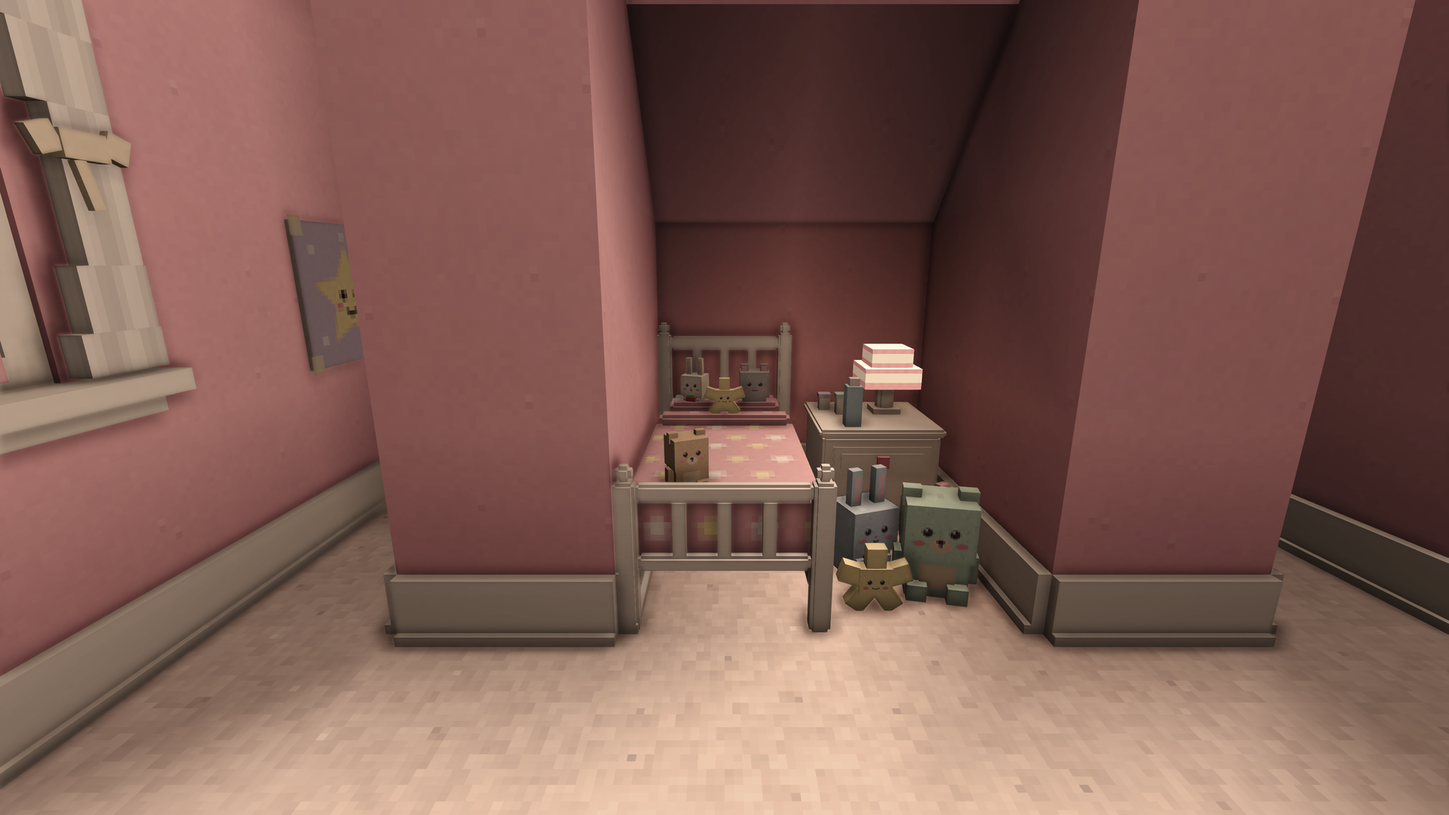
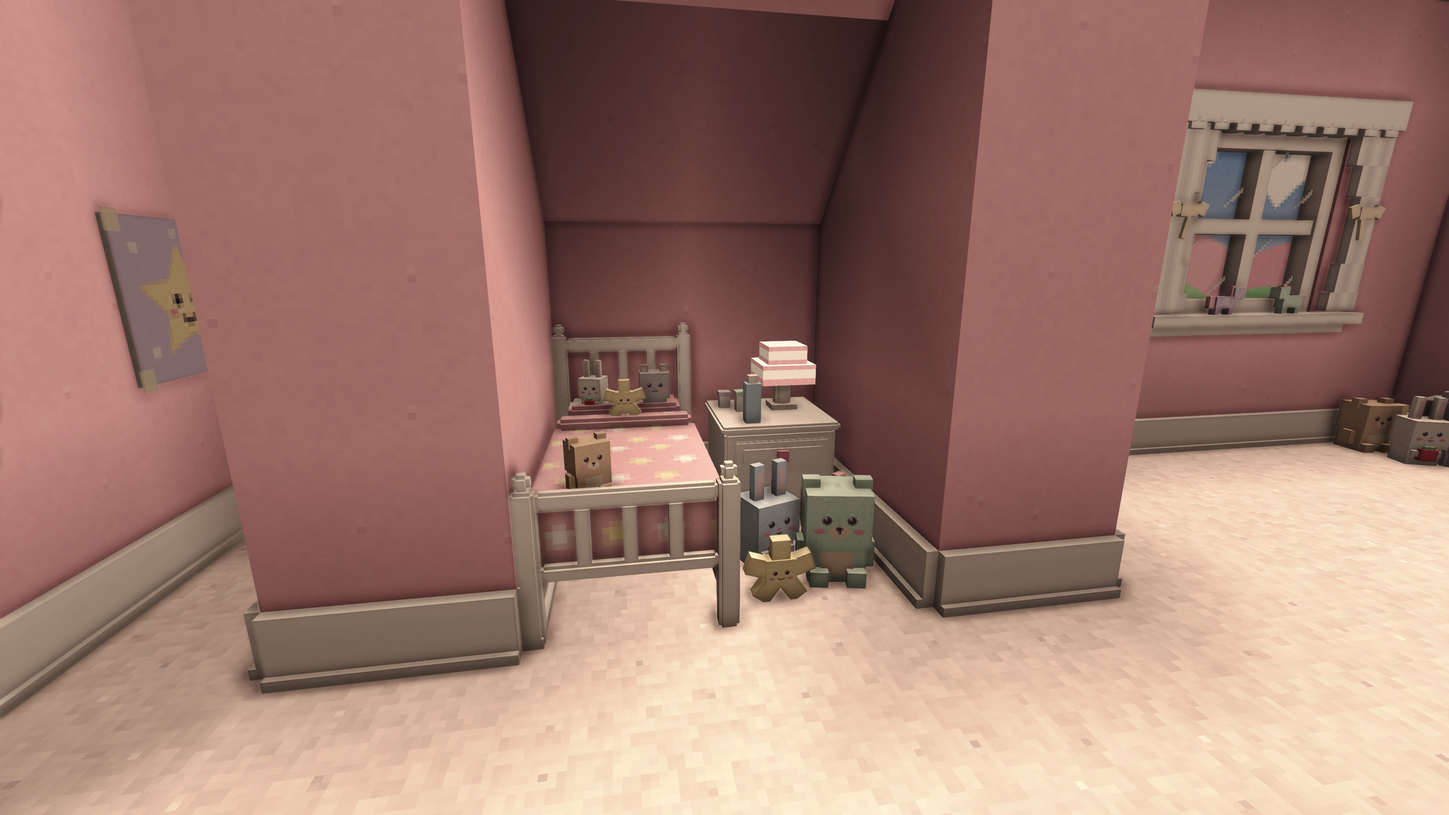
Screenshots for 0.514.0 after layout-9 room changes: hotel lobby, Kitty's House, Level !, ten changelog pairs
- Retaken in a fresh world (gfxgallery9c, seed 1672613597, "layout version 9 (new world)") from a build
  of 3ef62b0, fullscreen 3856x2176 scaled to 1920x1080: gallery 29 (Level !'s last stretch, one evenly
  spaced EXIT sign), 36 (Kitty's room, four rows further south, by its own lights) and 37 (the bed in
  its alcove with the longer bedroom and its east window beside it); thumbs run and l974 follow.
- Changelog pairs: new afters for the hotel lobby (piano with its own bench, no chair), Kitty's room
  (own lights) and Level !'s junk (evenly spaced signs); a new pair for the bedroom where you wake
  (6 by 10, was 6 by 6), both sides by the house's own lights; renumbered 06-10 so the creatures stay
  last. Overview and web copies rebuilt with showcase.py.
- CHANGELOG and the mod page (md and html) list ten pairs; tracker notes the reshoot's lessons.

diff --git a/docs/moddb-description.html b/docs/moddb-description.html
@@ -34,18 +34,19 @@
 <div style="padding: 14px 20px 6px;">
 <p style="margin: 0 0 10px;"><strong>A new look for every level.</strong> Every texture and model the mod adds was rebuilt beside the vanilla blocks around it, level by level, so the Backrooms now look like they belong in Vintage Story: wallpaper, carpet, concrete, brick and tile with real structure and shading and no visible block edges; gauges, handles, grilles, lamps and doors made as real shapes instead of paint; desks, chairs, shelves, diner booths, arcade cabinets and vending machines modelled; and every creature and item icon repainted with light and shade. Level 94's houses are all cream-yellow, its siren poles stand at last, and a white municipal water tower rises over each town (in worlds made from now on). Nothing vanilla changed, and existing worlds keep working.</p>
 <p style="margin: 0 0 14px;">In numbers: 1,219 block textures, 59 creature and character textures, 62 item icons and 608 block models were redrawn or rebuilt across all 22 levels, and 196 asset families were compared side by side, before and after; all but one were kept.</p>
-<p style="margin: 0 0 14px;"><strong>New in this version.</strong> Three new creatures: the Neighborhood Watch walks Level 9's streets and hunts by sight, Giant Spiders lie low in Level 8's caves round cobwebbed nests, and the Beast of Level 5 comes out of the hotel's boiler halls to offer a deal; the Bacteria is now a tangle of black wire. In worlds made from now on, the Hub's tunnels are rounded vaults with kerbs and edge lines, Kitty's room is nearly twice as big, Level 11's ground floors are laid out by kind of building (hotel lobbies with a grand piano, office lobbies, flats, stockrooms), and Level 94's picket fences stand back from the road with gates and a proper STOP sign. A door or an elevator that leads somewhere with no way back now leaves one, in that level's own style. And a new world setting, <em>Backrooms level size</em>, makes the rings of levels from half to twice as wide.</p>
+<p style="margin: 0 0 14px;"><strong>New in this version.</strong> Three new creatures: the Neighborhood Watch walks Level 9's streets and hunts by sight, Giant Spiders lie low in Level 8's caves round cobwebbed nests, and the Beast of Level 5 comes out of the hotel's boiler halls to offer a deal; the Bacteria is now a tangle of black wire. In worlds made from now on, the Hub's tunnels are rounded vaults with kerbs and edge lines, Kitty's House has a longer bedroom and Kitty's room is nearly twice as big, Level 11's ground floors are laid out by kind of building (hotel lobbies with a grand piano, office lobbies, flats, stockrooms), and Level 94's picket fences stand back from the road with gates and a proper STOP sign. A door or an elevator that leads somewhere with no way back now leaves one, in that level's own style. And a new world setting, <em>Backrooms level size</em>, makes the rings of levels from half to twice as wide.</p>
 <p style="margin: 0 0 10px; font-weight: 800; letter-spacing: 0.02em;">Before and after <span style="font-weight: 400; color: #6a6252;">(the same spot in the released 0.513.3, left, and in 0.514.0, right)</span></p>
 <div style="display: flex; flex-wrap: wrap; gap: 14px; margin: 0 0 12px;">
-<div style="flex: 1 1 100%;"><img style="display: block; width: 100%; height: auto; border-radius: 10px; border: 1px solid #e3d9bd;" src="https://raw.githubusercontent.com/jeffreyhockema/VS-Backrooms/main/docs/moddb/img/progress-0514/01-level11-hotel-lobby.jpg" alt="A Level 11 hotel lobby, before and after" width="1280"><div style="margin: 6px 2px 0; font-size: 0.92em; color: #4a4336;"><strong>A Level 11 hotel lobby.</strong> Ground floors are laid out by kind of building: a hotel lobby gets its front desk facing the door, sitting areas and a grand piano, now rebuilt with keys, a raised lid and pedals.</div></div>
+<div style="flex: 1 1 100%;"><img style="display: block; width: 100%; height: auto; border-radius: 10px; border: 1px solid #e3d9bd;" src="https://raw.githubusercontent.com/jeffreyhockema/VS-Backrooms/main/docs/moddb/img/progress-0514/01-level11-hotel-lobby.jpg" alt="A Level 11 hotel lobby, before and after" width="1280"><div style="margin: 6px 2px 0; font-size: 0.92em; color: #4a4336;"><strong>A Level 11 hotel lobby.</strong> Ground floors are laid out by kind of building: a hotel lobby gets its front desk facing the door, sitting areas and a grand piano, now rebuilt with keys, a raised lid and pedals, and standing with its own bench.</div></div>
 <div style="flex: 1 1 100%;"><img style="display: block; width: 100%; height: auto; border-radius: 10px; border: 1px solid #e3d9bd;" src="https://raw.githubusercontent.com/jeffreyhockema/VS-Backrooms/main/docs/moddb/img/progress-0514/02-level11-street.jpg" alt="Level 11's street furniture, before and after" width="1280"><div style="margin: 6px 2px 0; font-size: 0.92em; color: #4a4336;"><strong>Level 11's street furniture.</strong> The mailbox, fire hydrant and streetlights are rebuilt with real parts in the same places, the sidewalk and asphalt are the new materials, and behind the glass the lobby is furnished as a hotel's.</div></div>
 <div style="flex: 1 1 100%;"><img style="display: block; width: 100%; height: auto; border-radius: 10px; border: 1px solid #e3d9bd;" src="https://raw.githubusercontent.com/jeffreyhockema/VS-Backrooms/main/docs/moddb/img/progress-0514/03-level94-fences.jpg" alt="Level 94's fences and STOP sign, before and after" width="1280"><div style="margin: 6px 2px 0; font-size: 0.92em; color: #4a4336;"><strong>Level 94's fences and STOP sign.</strong> Picket fences stand back from the road behind a grass verge, joined round the bends, with gates and openings; the STOP sign is a proper octagonal plate on a galvanised post.</div></div>
 <div style="flex: 1 1 100%;"><img style="display: block; width: 100%; height: auto; border-radius: 10px; border: 1px solid #e3d9bd;" src="https://raw.githubusercontent.com/jeffreyhockema/VS-Backrooms/main/docs/moddb/img/progress-0514/04-hub-tunnel.jpg" alt="A Hub tunnel, before and after" width="1280"><div style="margin: 6px 2px 0; font-size: 0.92em; color: #4a4336;"><strong>A Hub tunnel.</strong> The tunnels are rounded like the road tunnels in the pictures, the walls curving into a vault, the lamps at the top of the wall, a white edge line on the road and a rounded kerb.</div></div>
-<div style="flex: 1 1 100%;"><img style="display: block; width: 100%; height: auto; border-radius: 10px; border: 1px solid #e3d9bd;" src="https://raw.githubusercontent.com/jeffreyhockema/VS-Backrooms/main/docs/moddb/img/progress-0514/05-level974-kittys-room.jpg" alt="Kitty's room in Level 974, before and after" width="1280"><div style="margin: 6px 2px 0; font-size: 0.92em; color: #4a4336;"><strong>Kitty's room in Level 974.</strong> The master bedroom with the cat bed is nearly twice as big, with a second window and a second light, and a doorway Kitty can walk through upright (shot by the shotbot's daylight).</div></div>
-<div style="flex: 1 1 100%;"><img style="display: block; width: 100%; height: auto; border-radius: 10px; border: 1px solid #e3d9bd;" src="https://raw.githubusercontent.com/jeffreyhockema/VS-Backrooms/main/docs/moddb/img/progress-0514/06-level-run-junk.jpg" alt="The junk on Level !'s floor, before and after" width="1280"><div style="margin: 6px 2px 0; font-size: 0.92em; color: #4a4336;"><strong>The junk on Level !'s floor.</strong> Flat litter became bulky junk you can see coming: loops of orange extension cord, a wheelchair, dumped boxes and a barricade of chairs (shot with a held lantern).</div></div>
-<div style="flex: 1 1 100%;"><img style="display: block; width: 100%; height: auto; border-radius: 10px; border: 1px solid #e3d9bd;" src="https://raw.githubusercontent.com/jeffreyhockema/VS-Backrooms/main/docs/moddb/img/progress-0514/07-snackrooms-vending.jpg" alt="A Snackrooms vending room's doorway, before and after" width="1280"><div style="margin: 6px 2px 0; font-size: 0.92em; color: #4a4336;"><strong>A Snackrooms vending room's doorway.</strong> The machine blocking a vending room's doorway is a broken one, cracked glass, a dented panel and a dead display, that can be broken up for its snacks.</div></div>
-<div style="flex: 1 1 100%;"><img style="display: block; width: 100%; height: auto; border-radius: 10px; border: 1px solid #e3d9bd;" src="https://raw.githubusercontent.com/jeffreyhockema/VS-Backrooms/main/docs/moddb/img/progress-0514/08-level9-house.jpg" alt="A Level 9 house, before and after" width="1280"><div style="margin: 6px 2px 0; font-size: 0.92em; color: #4a4336;"><strong>A Level 9 house.</strong> Houses get windows two blocks tall with sashes, casings and sills, shutters on the front, a picture window and a panelled front door that opens (shot by the shotbot's daylight).</div></div>
-<div style="flex: 1 1 100%;"><img style="display: block; width: 100%; height: auto; border-radius: 10px; border: 1px solid #e3d9bd;" src="https://raw.githubusercontent.com/jeffreyhockema/VS-Backrooms/main/docs/moddb/img/progress-0514/09-creatures.jpg" alt="What lives here, before and after" width="1280"><div style="margin: 6px 2px 0; font-size: 0.92em; color: #4a4336;"><strong>What lives here.</strong> Every creature repainted, the Bacteria rebuilt as a tangle of black wire, and three new ones: the Beast of Level 5 (as the gentleman), the Giant Spider and the Neighborhood Watch.</div></div>
+<div style="flex: 1 1 100%;"><img style="display: block; width: 100%; height: auto; border-radius: 10px; border: 1px solid #e3d9bd;" src="https://raw.githubusercontent.com/jeffreyhockema/VS-Backrooms/main/docs/moddb/img/progress-0514/05-level974-kittys-room.jpg" alt="Kitty's room in Level 974, before and after" width="1280"><div style="margin: 6px 2px 0; font-size: 0.92em; color: #4a4336;"><strong>Kitty's room in Level 974.</strong> The master bedroom with the cat bed is nearly twice as big (6 by 7 blocks, it was 6 by 4), with a second window, three lights and a doorway Kitty can walk through upright (before by the shotbot's daylight, after by the room's own lights).</div></div>
+<div style="flex: 1 1 100%;"><img style="display: block; width: 100%; height: auto; border-radius: 10px; border: 1px solid #e3d9bd;" src="https://raw.githubusercontent.com/jeffreyhockema/VS-Backrooms/main/docs/moddb/img/progress-0514/06-level974-bedroom.jpg" alt="The bedroom where you wake in Level 974, before and after" width="1280"><div style="margin: 6px 2px 0; font-size: 0.92em; color: #4a4336;"><strong>The bedroom where you wake in Level 974.</strong> The bedroom with the twin bed, the desk and the open closet is much longer (6 by 10 blocks, it was 6 by 6), with a second window and a second light; the closet stands at its far end. Both by the house's own lights.</div></div>
+<div style="flex: 1 1 100%;"><img style="display: block; width: 100%; height: auto; border-radius: 10px; border: 1px solid #e3d9bd;" src="https://raw.githubusercontent.com/jeffreyhockema/VS-Backrooms/main/docs/moddb/img/progress-0514/07-level-run-junk.jpg" alt="The junk on Level !'s floor, before and after" width="1280"><div style="margin: 6px 2px 0; font-size: 0.92em; color: #4a4336;"><strong>The junk on Level !'s floor.</strong> Flat litter became bulky junk you can see coming: loops of orange extension cord, a wheelchair, dumped boxes and a barricade of chairs; overhead, the hanging EXIT signs run in a steady line about twelve blocks apart instead of in clusters (shot with a held lantern).</div></div>
+<div style="flex: 1 1 100%;"><img style="display: block; width: 100%; height: auto; border-radius: 10px; border: 1px solid #e3d9bd;" src="https://raw.githubusercontent.com/jeffreyhockema/VS-Backrooms/main/docs/moddb/img/progress-0514/08-snackrooms-vending.jpg" alt="A Snackrooms vending room's doorway, before and after" width="1280"><div style="margin: 6px 2px 0; font-size: 0.92em; color: #4a4336;"><strong>A Snackrooms vending room's doorway.</strong> The machine blocking a vending room's doorway is a broken one, cracked glass, a dented panel and a dead display, that can be broken up for its snacks.</div></div>
+<div style="flex: 1 1 100%;"><img style="display: block; width: 100%; height: auto; border-radius: 10px; border: 1px solid #e3d9bd;" src="https://raw.githubusercontent.com/jeffreyhockema/VS-Backrooms/main/docs/moddb/img/progress-0514/09-level9-house.jpg" alt="A Level 9 house, before and after" width="1280"><div style="margin: 6px 2px 0; font-size: 0.92em; color: #4a4336;"><strong>A Level 9 house.</strong> Houses get windows two blocks tall with sashes, casings and sills, shutters on the front, a picture window and a panelled front door that opens (shot by the shotbot's daylight).</div></div>
+<div style="flex: 1 1 100%;"><img style="display: block; width: 100%; height: auto; border-radius: 10px; border: 1px solid #e3d9bd;" src="https://raw.githubusercontent.com/jeffreyhockema/VS-Backrooms/main/docs/moddb/img/progress-0514/10-creatures.jpg" alt="What lives here, before and after" width="1280"><div style="margin: 6px 2px 0; font-size: 0.92em; color: #4a4336;"><strong>What lives here.</strong> Every creature repainted, the Bacteria rebuilt as a tangle of black wire, and three new ones: the Beast of Level 5 (as the gentleman), the Giant Spider and the Neighborhood Watch.</div></div>
 </div>
 </div>
 </div>

diff --git a/docs/moddb-description.md b/docs/moddb-description.md
@@ -20,21 +20,22 @@ Links: [Player guide (spoilers)](https://github.com/jeffreyhockema/VS-Backrooms/
 
 In numbers: 1,219 block textures, 59 creature and character textures, 62 item icons and 608 block models were redrawn or rebuilt across all 22 levels, and 196 asset families were compared side by side, before and after; all but one were kept.
 
-**New in this version.** Three new creatures: the Neighborhood Watch walks Level 9's streets and hunts by sight, Giant Spiders lie low in Level 8's caves round cobwebbed nests, and the Beast of Level 5 comes out of the hotel's boiler halls to offer a deal; the Bacteria is now a tangle of black wire. In worlds made from now on, the Hub's tunnels are rounded vaults with kerbs and edge lines, Kitty's room is nearly twice as big, Level 11's ground floors are laid out by kind of building (hotel lobbies with a grand piano, office lobbies, flats, stockrooms), and Level 94's picket fences stand back from the road with gates and a proper STOP sign. A door or an elevator that leads somewhere with no way back now leaves one, in that level's own style. And a new world setting, *Backrooms level size*, makes the rings of levels from half to twice as wide.
+**New in this version.** Three new creatures: the Neighborhood Watch walks Level 9's streets and hunts by sight, Giant Spiders lie low in Level 8's caves round cobwebbed nests, and the Beast of Level 5 comes out of the hotel's boiler halls to offer a deal; the Bacteria is now a tangle of black wire. In worlds made from now on, the Hub's tunnels are rounded vaults with kerbs and edge lines, Kitty's House has a longer bedroom and Kitty's room is nearly twice as big, Level 11's ground floors are laid out by kind of building (hotel lobbies with a grand piano, office lobbies, flats, stockrooms), and Level 94's picket fences stand back from the road with gates and a proper STOP sign. A door or an elevator that leads somewhere with no way back now leaves one, in that level's own style. And a new world setting, *Backrooms level size*, makes the rings of levels from half to twice as wide.
 
 ### Before and after
 
 The same spot in the released 0.513.3 (left) and in 0.514.0 (right).
 
-- [A Level 11 hotel lobby](https://raw.githubusercontent.com/jeffreyhockema/VS-Backrooms/main/docs/moddb/img/progress-0514/01-level11-hotel-lobby.jpg): ground floors are laid out by kind of building: a hotel lobby gets its front desk facing the door, sitting areas and a grand piano, now rebuilt with keys, a raised lid and pedals.
+- [A Level 11 hotel lobby](https://raw.githubusercontent.com/jeffreyhockema/VS-Backrooms/main/docs/moddb/img/progress-0514/01-level11-hotel-lobby.jpg): ground floors are laid out by kind of building: a hotel lobby gets its front desk facing the door, sitting areas and a grand piano, now rebuilt with keys, a raised lid and pedals, and standing with its own bench.
 - [Level 11's street furniture](https://raw.githubusercontent.com/jeffreyhockema/VS-Backrooms/main/docs/moddb/img/progress-0514/02-level11-street.jpg): the mailbox, fire hydrant and streetlights are rebuilt with real parts in the same places, the sidewalk and asphalt are the new materials, and behind the glass the lobby is furnished as a hotel's.
 - [Level 94's fences and STOP sign](https://raw.githubusercontent.com/jeffreyhockema/VS-Backrooms/main/docs/moddb/img/progress-0514/03-level94-fences.jpg): picket fences stand back from the road behind a grass verge, joined round the bends, with gates and openings; the STOP sign is a proper octagonal plate on a galvanised post.
 - [A Hub tunnel](https://raw.githubusercontent.com/jeffreyhockema/VS-Backrooms/main/docs/moddb/img/progress-0514/04-hub-tunnel.jpg): the tunnels are rounded like the road tunnels in the pictures, the walls curving into a vault, the lamps at the top of the wall, a white edge line on the road and a rounded kerb.
-- [Kitty's room in Level 974](https://raw.githubusercontent.com/jeffreyhockema/VS-Backrooms/main/docs/moddb/img/progress-0514/05-level974-kittys-room.jpg): the master bedroom with the cat bed is nearly twice as big, with a second window and a second light, and a doorway Kitty can walk through upright (shot by the shotbot's daylight).
-- [The junk on Level !'s floor](https://raw.githubusercontent.com/jeffreyhockema/VS-Backrooms/main/docs/moddb/img/progress-0514/06-level-run-junk.jpg): flat litter became bulky junk you can see coming: loops of orange extension cord, a wheelchair, dumped boxes and a barricade of chairs (shot with a held lantern).
-- [A Snackrooms vending room's doorway](https://raw.githubusercontent.com/jeffreyhockema/VS-Backrooms/main/docs/moddb/img/progress-0514/07-snackrooms-vending.jpg): the machine blocking a vending room's doorway is a broken one, cracked glass, a dented panel and a dead display, that can be broken up for its snacks.
-- [A Level 9 house](https://raw.githubusercontent.com/jeffreyhockema/VS-Backrooms/main/docs/moddb/img/progress-0514/08-level9-house.jpg): houses get windows two blocks tall with sashes, casings and sills, shutters on the front, a picture window and a panelled front door that opens (shot by the shotbot's daylight).
-- [What lives here](https://raw.githubusercontent.com/jeffreyhockema/VS-Backrooms/main/docs/moddb/img/progress-0514/09-creatures.jpg): every creature repainted, the Bacteria rebuilt as a tangle of black wire, and three new ones: the Beast of Level 5 (as the gentleman), the Giant Spider and the Neighborhood Watch.
+- [Kitty's room in Level 974](https://raw.githubusercontent.com/jeffreyhockema/VS-Backrooms/main/docs/moddb/img/progress-0514/05-level974-kittys-room.jpg): the master bedroom with the cat bed is nearly twice as big (6 by 7 blocks, it was 6 by 4), with a second window, three lights and a doorway Kitty can walk through upright (before by the shotbot's daylight, after by the room's own lights).
+- [The bedroom where you wake in Level 974](https://raw.githubusercontent.com/jeffreyhockema/VS-Backrooms/main/docs/moddb/img/progress-0514/06-level974-bedroom.jpg): the bedroom with the twin bed, the desk and the open closet is much longer (6 by 10 blocks, it was 6 by 6), with a second window and a second light; the closet stands at its far end. Both by the house's own lights.
+- [The junk on Level !'s floor](https://raw.githubusercontent.com/jeffreyhockema/VS-Backrooms/main/docs/moddb/img/progress-0514/07-level-run-junk.jpg): flat litter became bulky junk you can see coming: loops of orange extension cord, a wheelchair, dumped boxes and a barricade of chairs; overhead, the hanging EXIT signs run in a steady line about twelve blocks apart instead of in clusters (shot with a held lantern).
+- [A Snackrooms vending room's doorway](https://raw.githubusercontent.com/jeffreyhockema/VS-Backrooms/main/docs/moddb/img/progress-0514/08-snackrooms-vending.jpg): the machine blocking a vending room's doorway is a broken one, cracked glass, a dented panel and a dead display, that can be broken up for its snacks.
+- [A Level 9 house](https://raw.githubusercontent.com/jeffreyhockema/VS-Backrooms/main/docs/moddb/img/progress-0514/09-level9-house.jpg): houses get windows two blocks tall with sashes, casings and sills, shutters on the front, a picture window and a panelled front door that opens (shot by the shotbot's daylight).
+- [What lives here](https://raw.githubusercontent.com/jeffreyhockema/VS-Backrooms/main/docs/moddb/img/progress-0514/10-creatures.jpg): every creature repainted, the Bacteria rebuilt as a tangle of black wire, and three new ones: the Beast of Level 5 (as the gentleman), the Giant Spider and the Neighborhood Watch.
 
 ## What's new in 0.513.0
 

diff --git a/CHANGELOG.md b/CHANGELOG.md
@@ -101,17 +101,18 @@ In numbers: 1,219 block textures (611 of them new versions, so a surface no long
 
 ### Before and after
 
-The same spot in the released 0.513.3 (left) and in 0.514.0 (right), each in a world it made, so the new layout (version 9) shows too. All nine on one page: [docs/screenshots/progress-0514/00-overview.jpg](docs/screenshots/progress-0514/00-overview.jpg).
+The same spot in the released 0.513.3 (left) and in 0.514.0 (right), each in a world it made, so the new layout (version 9) shows too. All ten on one page: [docs/screenshots/progress-0514/00-overview.jpg](docs/screenshots/progress-0514/00-overview.jpg).
 
-- [docs/screenshots/progress-0514/01-level11-hotel-lobby.jpg](docs/screenshots/progress-0514/01-level11-hotel-lobby.jpg): A Level 11 hotel lobby. Ground floors are laid out by kind of building: a hotel lobby gets its front desk facing the door, sitting areas and a grand piano, now rebuilt with keys, a raised lid and pedals.
+- [docs/screenshots/progress-0514/01-level11-hotel-lobby.jpg](docs/screenshots/progress-0514/01-level11-hotel-lobby.jpg): A Level 11 hotel lobby. Ground floors are laid out by kind of building: a hotel lobby gets its front desk facing the door, sitting areas and a grand piano, now rebuilt with keys, a raised lid and pedals, and standing with its own bench.
 - [docs/screenshots/progress-0514/02-level11-street.jpg](docs/screenshots/progress-0514/02-level11-street.jpg): Level 11's street furniture. The mailbox, fire hydrant and streetlights are rebuilt with real parts in the same places, the sidewalk and asphalt are the new materials, and behind the glass the lobby is furnished as a hotel's.
 - [docs/screenshots/progress-0514/03-level94-fences.jpg](docs/screenshots/progress-0514/03-level94-fences.jpg): Level 94's fences and STOP sign. Picket fences stand back from the road behind a grass verge, joined round the bends, with gates and openings; the STOP sign is a proper octagonal plate on a galvanised post.
 - [docs/screenshots/progress-0514/04-hub-tunnel.jpg](docs/screenshots/progress-0514/04-hub-tunnel.jpg): A Hub tunnel. The tunnels are rounded like the road tunnels in the pictures, the walls curving into a vault, the lamps at the top of the wall, a white edge line on the road and a rounded kerb.
-- [docs/screenshots/progress-0514/05-level974-kittys-room.jpg](docs/screenshots/progress-0514/05-level974-kittys-room.jpg): Kitty's room in Level 974. The master bedroom with the cat bed is nearly twice as big, with a second window and a second light, and a doorway Kitty can walk through upright (shot by the shotbot's daylight).
-- [docs/screenshots/progress-0514/06-level-run-junk.jpg](docs/screenshots/progress-0514/06-level-run-junk.jpg): The junk on Level !'s floor. Flat litter became bulky junk you can see coming: loops of orange extension cord, a wheelchair, dumped boxes and a barricade of chairs (shot with a held lantern).
-- [docs/screenshots/progress-0514/07-snackrooms-vending.jpg](docs/screenshots/progress-0514/07-snackrooms-vending.jpg): A Snackrooms vending room's doorway. The machine blocking a vending room's doorway is a broken one, cracked glass, a dented panel and a dead display, that can be broken up for its snacks.
-- [docs/screenshots/progress-0514/08-level9-house.jpg](docs/screenshots/progress-0514/08-level9-house.jpg): A Level 9 house. Houses get windows two blocks tall with sashes, casings and sills, shutters on the front, a picture window and a panelled front door that opens (shot by the shotbot's daylight).
-- [docs/screenshots/progress-0514/09-creatures.jpg](docs/screenshots/progress-0514/09-creatures.jpg): What lives here. Every creature repainted, the Bacteria rebuilt as a tangle of black wire, and three new ones: the Beast of Level 5 (as the gentleman), the Giant Spider and the Neighborhood Watch.
+- [docs/screenshots/progress-0514/05-level974-kittys-room.jpg](docs/screenshots/progress-0514/05-level974-kittys-room.jpg): Kitty's room in Level 974. The master bedroom with the cat bed is nearly twice as big (6 by 7 blocks, it was 6 by 4), with a second window, three lights and a doorway Kitty can walk through upright (before by the shotbot's daylight, after by the room's own lights).
+- [docs/screenshots/progress-0514/06-level974-bedroom.jpg](docs/screenshots/progress-0514/06-level974-bedroom.jpg): The bedroom where you wake in Level 974. The bedroom with the twin bed, the desk and the open closet is much longer (6 by 10 blocks, it was 6 by 6), with a second window and a second light; the closet stands at its far end. Both by the house's own lights.
+- [docs/screenshots/progress-0514/07-level-run-junk.jpg](docs/screenshots/progress-0514/07-level-run-junk.jpg): The junk on Level !'s floor. Flat litter became bulky junk you can see coming: loops of orange extension cord, a wheelchair, dumped boxes and a barricade of chairs; overhead, the hanging EXIT signs run in a steady line about twelve blocks apart instead of in clusters (shot with a held lantern).
+- [docs/screenshots/progress-0514/08-snackrooms-vending.jpg](docs/screenshots/progress-0514/08-snackrooms-vending.jpg): A Snackrooms vending room's doorway. The machine blocking a vending room's doorway is a broken one, cracked glass, a dented panel and a dead display, that can be broken up for its snacks.
+- [docs/screenshots/progress-0514/09-level9-house.jpg](docs/screenshots/progress-0514/09-level9-house.jpg): A Level 9 house. Houses get windows two blocks tall with sashes, casings and sills, shutters on the front, a picture window and a panelled front door that opens (shot by the shotbot's daylight).
+- [docs/screenshots/progress-0514/10-creatures.jpg](docs/screenshots/progress-0514/10-creatures.jpg): What lives here. Every creature repainted, the Bacteria rebuilt as a tangle of black wire, and three new ones: the Beast of Level 5 (as the gentleman), the Giant Spider and the Neighborhood Watch.
 
 ## 0.513.3 — fixes from the first week
 

diff --git a/docs/design/graphics-pass/tracker.md b/docs/design/graphics-pass/tracker.md
@@ -264,6 +264,13 @@ Things later batches inherit. Add a line when you learn one; do not remove lines
   `screenWidth`/`screenHeight` 3856/2176 in a new data dir before shooting, and check a shot's size before installing it.
 - (shots514) The Snackrooms' lights can be off for a whole shot (one scout frame of a vending room came out at a third of
   the brightness of the same frame in the next run); retake a dark Snackrooms frame before judging it.
+- (shots514c) Level 974 by its own lights (light 19 from 3ef62b0) reads as bright as the shotbot's daylight (mean luma within
+  2 of each other in every bedroom and Kitty's room frame), so the house is shot without daylight now. One frame of Kitty's
+  room came out at a third of the brightness right after a daylight spot in the bedroom; the same spot shot again (and after
+  30 s) was bright: retake a dark 974 frame before judging it.
+- (shots514c) Level !'s gallery spot (29) is red and dark by its own light, as before (luma 18, the earlier frame 18); the
+  changelog pair shoots that hall with a held lantern. `batch.py` reported a shot MISSING when the client still held the
+  screenshot file ("shot move failed"): shoot that spot again.
 
 ## Batches
 
